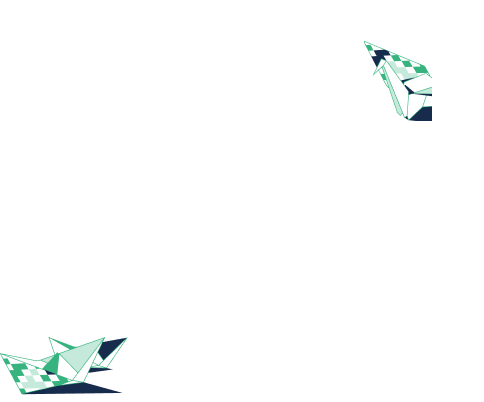
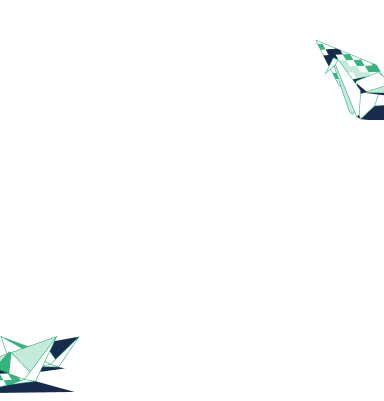
Refactor background image of about me section

Changed region(s): [[0.75, 0.0898, 1.0, 0.2993], [0.0, 0.8379, 0.2812, 0.9875]]

diff --git a/style.css b/style.css
@@ -97,9 +97,13 @@ h1 {
 
 #work-section h2 {
   font-size: 40px;
-  text-align: center;
   color: #172b4d;
   padding: 30px;
+  font-family: 'Inter', sans-serif;
+  font-weight: 700;
+  line-height: 52px;
+  letter-spacing: 0;
+  text-align: center;
 }
 
 #card-container {
@@ -111,26 +115,31 @@ h1 {
   grid-template-columns: repeat(auto-fill, 327px);
 }
 
-#about-me-text {
+#about-me {
   background-image: url("./images/about-me-mobile.png");
+  background-repeat: no-repeat;
   display: flex;
   flex-direction: column;
-  align-items: center;
-  gap: 20px;
-  background-size: contain;
-  background-repeat: no-repeat;
-  margin-bottom: 20px;
-  width: 100%;
+  gap: 24px;
+  height: 1522px;
+  border-radius: 0;
+  padding: 40px 24px 64px 24px;
+  column-gap: 10px;
+  margin-top: 24px;
 }
 
-#about-me-text h2 {
+#about-me h2 {
   font-size: 40px;
-  font-weight: bold;
   color: #172b4d;
+  font-family: 'Inter', sans-serif;
+  font-weight: 700;
+  line-height: 52px;
+  letter-spacing: 0;
+  text-align: center;
 }
 
-#about-me-text p {
-  font-size: 20px;
+#about-me p {
+  font-size: 18px;
   color: #42526e;
   padding: 0 20px 0 20px;
   font-family: 'Inter', sans-serif;
@@ -140,7 +149,7 @@ h1 {
   text-align: center;
 }
 
-#about-me-text button {
+#about-me button {
   background-color: #36b37f;
   color: white;
   outline-width: 0;
@@ -167,6 +176,7 @@ h1 {
   padding: 10px;
   gap: 15px;
   grid-template-columns: repeat(auto-fill, 327px);
+  margin-top: 58px;
 }
 
 #about-me-skills h4 {
@@ -184,16 +194,21 @@ h1 {
   justify-content: center;
   align-items: center;
   flex-direction: column;
-  gap: 20px;
-  margin-top: 20px;
+  gap: 58px;
+  height: 879px;
+  border-radius: 0;
+  padding: 64px 24px 64px 24px;
 }
 
 #contact-section p {
-  font-size: 30px;
-  font-weight: bold;
   padding: 0 25px 0 25px;
   width: 100%;
   text-align: center;
+  font-family: 'Inter', sans-serif;
+  font-size: 40px;
+  font-weight: 700;
+  line-height: 52px;
+  letter-spacing: 0;
 }
 
 #form {
@@ -203,7 +218,7 @@ h1 {
   width: 100%;
   display: flex;
   flex-direction: column;
-  gap: 12px;
+  gap: 24px;
 }
 
 #form input {
@@ -220,15 +235,20 @@ h1 {
 }
 
 #form button {
-  padding: 10px 10px 10px 10px;
-  border-radius: 15px;
   width: 129px;
   height: 48px;
-  font-size: 17px;
   border: none;
   background-color: #36b37f;
   color: white;
   align-self: center;
+  font-family: 'Inter', sans-serif;
+  font-size: 17px;
+  font-weight: 500;
+  line-height: 24px;
+  letter-spacing: 0.03em;
+  text-align: center;
+  border-radius: 4px;
+  padding: 12px;
 }
 
 .card {

diff --git a/index.html b/index.html
@@ -164,12 +164,10 @@
         </ul>
       </section>
       <section id="about-me">
-        <div id="about-me-text">
           <h2>About me</h2>
           <p> I can help you build a product , feature or website Look through some of my work and experience! If you like what you see and have a project you need coded, 
             don’t hesitate to contact me.</p>
             <button type='button'>Get my resume</button>
-        </div>
         <ul id="about-me-skills">
            <li class="skill-card">
              <img src="./images/icon-languages.svg" alt="languages-icon">
